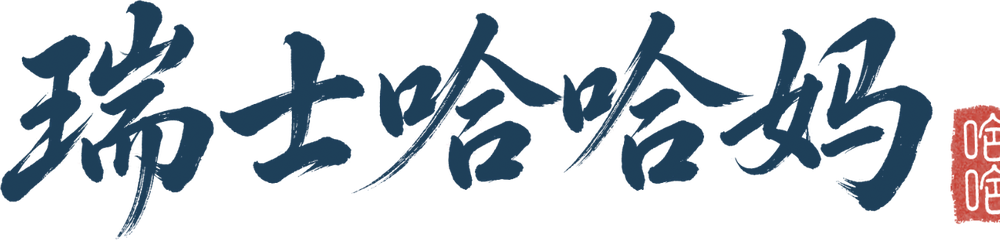
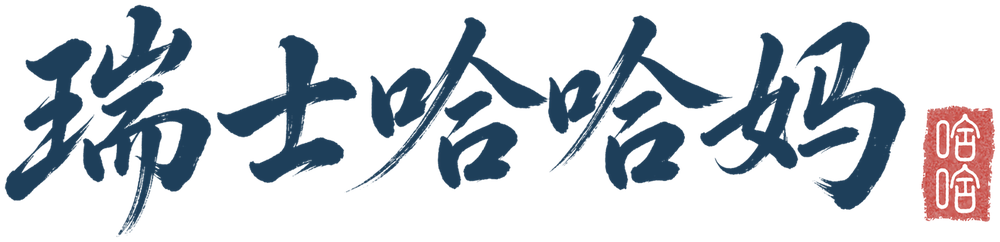
哈哈妈书法名+印章重新抠图：原版顶部、底部和印章被切断
Claude-Session: https://claude.ai/code/session_01BfepyFVD4rRmYL4EzxKvwm

diff --git a/hahama/index.html b/hahama/index.html
@@ -284,7 +284,7 @@ footer a{color:var(--ink2)}
   <div class="w">
     <a class="home" href="../" title="回到边玩边赚首页"><img src="../img/logo-icon.png" alt="" width="24" height="24">边玩边赚</a>
     <span class="sep" aria-hidden="true">/</span>
-    <a class="me" href="#top" aria-label="瑞士哈哈妈"><img src="hh-name-ink.png?v=2" alt="瑞士哈哈妈" width="1000" height="240"></a>
+    <a class="me" href="#top" aria-label="瑞士哈哈妈"><img src="hh-name-ink.png?v=3" alt="瑞士哈哈妈" width="1000" height="242"></a>
     <nav aria-label="页面目录">
       <a href="#bang">能帮你</a><a href="#ping">凭什么</a><a href="#hezuo">怎么合作</a><a href="#woshi">我是谁</a><a href="#daizou">带走</a><a href="#zhaowo">找我</a>
     </nav>
@@ -297,7 +297,7 @@ footer a{color:var(--ink2)}
   <svg class="mtn" viewBox="0 0 1440 240" preserveAspectRatio="none" aria-hidden="true"><path d="M0 240V150l120-60 90 40 140-100 110 80 80-40 150 110 120-70 140 60 160-120 130 90 100-30 100 50v80z" fill="#DCE6EE"/><path d="M0 240v-50l160-50 120 40 170-70 150 80 130-40 170 60 180-80 140 60 220-40v90z" fill="#fff"/></svg>
   <div class="w" id="bang">
     <div class="copy">
-      <div class="who rv"><h2 class="brush"><img src="hh-name.png?v=2" alt="瑞士哈哈妈" width="1000" height="240"></h2><span>妈妈乐哈哈，人生顶呱呱<br>塔牌外语创始人 · 瑞士 InterChange 咨询 CEO</span></div>
+      <div class="who rv"><h2 class="brush"><img src="hh-name.png?v=3" alt="瑞士哈哈妈" width="1000" height="242"></h2><span>妈妈乐哈哈，人生顶呱呱<br>塔牌外语创始人 · 瑞士 InterChange 咨询 CEO</span></div>
       <p class="pos rv">陪孩子学会自己学英语</p>
       <h1 class="rv">普通家庭，<br><em>也可以有选择。</em></h1>
       <p class="say rv">我做多语言教育，最在意的不是孩子今天背了多少单词，而是他能不能慢慢学会自己学。2016 年在广东阳春创办塔牌外语，心里装的是资源不多的普通家庭；不到两年，从 0 做到 1000 多名学员。到今天，陪伴过 10000+ 家庭。</p>
